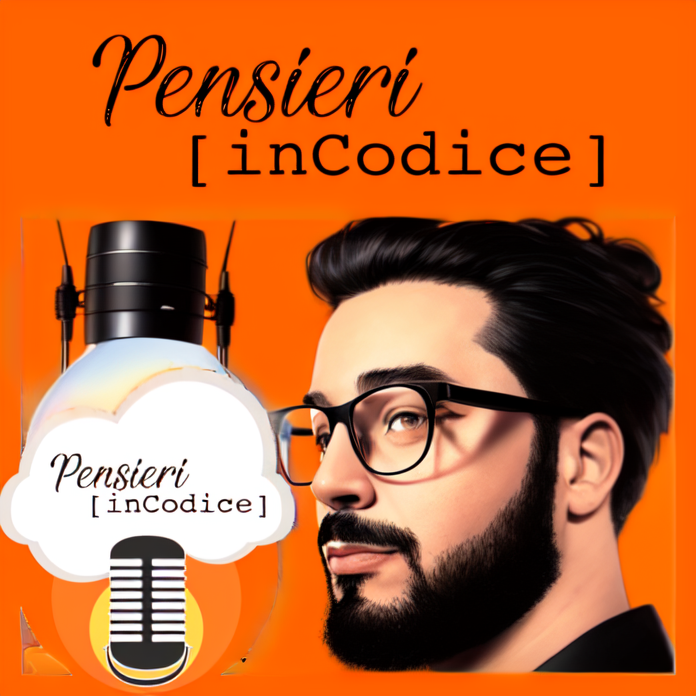
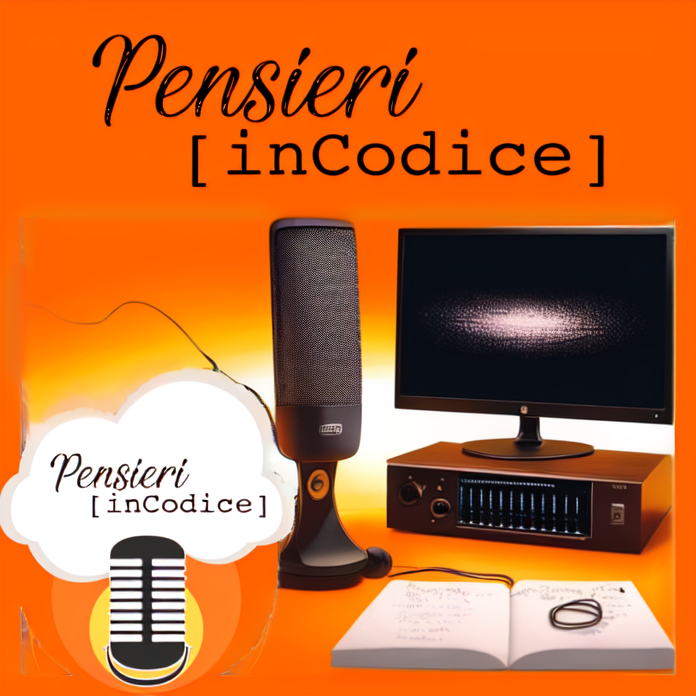
Added PIC107 cover's drafts and thumbs

diff --git a/covers/107/style.css b/covers/107/style.css
@@ -1,0 +1,2 @@
+  .gallery { display: grid; grid-template-columns: repeat(auto-fill, minmax(200px, 1fr)); gap: 10px; }
+  .thumbnail { width: 100%; height: auto; }

diff --git a/covers/107/README.md b/covers/107/README.md
@@ -1,0 +1,47 @@
+## AUTHOR
+
+- [Francesco Zubani](https://www.linkedin.com/in/francesco-zubani-5957081a6/)
+
+## AKNOWLEDGEMENTS
+
+Only FOSS software was used to generate the gallery.
+
+This work was made possible by the following projects:
+
+- [Stable Diffusion](https://github.com/CompVis/stable-diffusion) - [LICENSE](https://github.com/CompVis/stable-diffusion/blob/main/LICENSE)
+- [ComfyUI](https://github.com/comfyanonymous/ComfyUI) - [LICENSE](https://github.com/comfyanonymous/ComfyUI/blob/master/LICENSE)
+- [GIMP](https://www.gimp.org/)
+- [Inkscape](https://inkscape.org/)
+
+The cover's frame and logo were made by Daniele Galano.
+
+[![License](https://img.shields.io/badge/License-GPL%20v3-blue.svg)](http://www.gnu.org/licenses/gpl-3.0)
+
+This work is licensed under the GPLv3 license.
+See LICENSE file for more details.
+
+## GALLERY
+
+### Il futuro di Pensieri in codice
+
+<div class="gallery">
+  <a href="PIC107_01.png"><img class="thumbnail" src="../covers/107/thumbs/PIC107_01.png" alt="PIC107_01"></a>
+  <a href="PIC107_02.png"><img class="thumbnail" src="../covers/107/thumbs/PIC107_02.png" alt="PIC107_02"></a>
+  <a href="PIC107_03.png"><img class="thumbnail" src="../covers/107/thumbs/PIC107_03.png" alt="PIC107_03"></a>
+  <a href="PIC107_04.png"><img class="thumbnail" src="../covers/107/thumbs/PIC107_04.png" alt="PIC107_04"></a>
+  <a href="PIC107_05.png"><img class="thumbnail" src="../covers/107/thumbs/PIC107_05.png" alt="PIC107_05"></a>
+  <a href="PIC107_06.png"><img class="thumbnail" src="../covers/107/thumbs/PIC107_06.png" alt="PIC107_06"></a>
+  <a href="PIC107_07.png"><img class="thumbnail" src="../covers/107/thumbs/PIC107_07.png" alt="PIC107_07"></a>
+  <a href="PIC107_08.png"><img class="thumbnail" src="../covers/107/thumbs/PIC107_08.png" alt="PIC107_08"></a>
+  <a href="PIC107_09.png"><img class="thumbnail" src="../covers/107/thumbs/PIC107_09.png" alt="PIC107_09"></a>
+  <a href="PIC107_10.png"><img class="thumbnail" src="../covers/107/thumbs/PIC107_10.png" alt="PIC107_10"></a>
+  <a href="PIC107_11.png"><img class="thumbnail" src="../covers/107/thumbs/PIC107_11.png" alt="PIC107_11"></a>
+  <a href="PIC107_12.png"><img class="thumbnail" src="../covers/107/thumbs/PIC107_12.png" alt="PIC107_12"></a>
+  <a href="PIC107_13.png"><img class="thumbnail" src="../covers/107/thumbs/PIC107_13.png" alt="PIC107_13"></a>
+  <a href="PIC107_14.png"><img class="thumbnail" src="../covers/107/thumbs/PIC107_14.png" alt="PIC107_14"></a>
+  <a href="PIC107_15.png"><img class="thumbnail" src="../covers/107/thumbs/PIC107_15.png" alt="PIC107_15"></a>
+  <a href="PIC107_16.png"><img class="thumbnail" src="../covers/107/thumbs/PIC107_16.png" alt="PIC107_16"></a>
+  <a href="PIC107_17.png"><img class="thumbnail" src="../covers/107/thumbs/PIC107_17.png" alt="PIC107_17"></a>
+</div>
+</body>
+</html>
